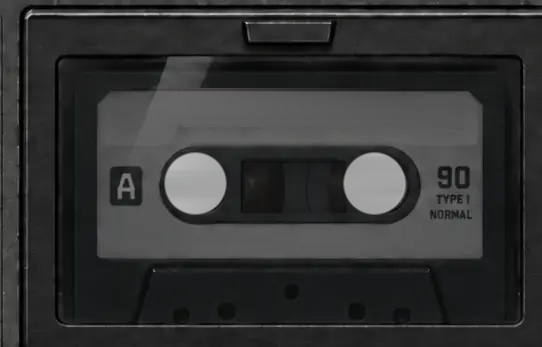
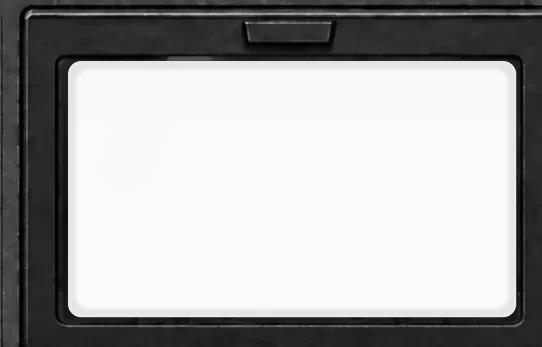
fix(looper): turn cassette overlay into real glass and bezel
Replace the baked cassette artwork in cassette-reference-overlay.webp with a true transparent glass pane while preserving the original molded plastic frame. The pane now carries only a faint neutral tint, subtle reflection and inner edge shadow, so cassette.webp and the animated mechanism are actually visible underneath. Add Chromium alpha checks for the pane and bump the overlay cache key.

diff --git a/index.html b/index.html
@@ -62,7 +62,7 @@
               <img class="cassetteReel cassetteReelRight" src="assets/looper-ui/120927/reel-animation.webp" width="64" height="64" alt="" draggable="false">
               <img class="cassetteTape" src="assets/looper-ui/120927/cassette.webp" width="435" height="262" alt="" draggable="false">
             </div>
-            <img class="cassetteReferenceOverlay" src="assets/looper-ui/120927/cassette-reference-overlay.webp?v=seamless-title-label-190926-5" width="542" height="347" alt="" aria-hidden="true" draggable="false">
+            <img class="cassetteReferenceOverlay" src="assets/looper-ui/120927/cassette-reference-overlay.webp?v=glass-bezel-190926-6" width="542" height="347" alt="" aria-hidden="true" draggable="false">
             <span id="cassetteBeatName" class="cassetteBeatName">NO BEAT LOADED</span>
             <div class="deckReadout" role="status" aria-live="polite">
               <button id="deckReadoutTrack" class="deckReadoutTrack" type="button" popovertarget="deckTrackDetails" aria-label="Afficher le titre complet">NO BEAT LOADED</button>

diff --git a/tests/looper_120927_render.py b/tests/looper_120927_render.py
@@ -1,6 +1,6 @@
 """Capture the approved 120927 deck at reviewable desktop/mobile sizes."""
 from pathlib import Path
-import base64, contextlib, http.server, os, socketserver, threading
+import contextlib, http.server, os, socketserver, threading
 try:
     from playwright.sync_api import sync_playwright
 except ImportError:
@@ -31,17 +31,28 @@ with contextlib.ExitStack() as stack:
             page.wait_for_function('window.__SP?.ui120927Ready === true')
             page.wait_for_function('window.__SP?.ui120927CssReady === true')
             page.wait_for_function("[...document.querySelectorAll('.cassetteMechanism img')].every(i=>i.complete && i.naturalWidth>0)")
-            if label=='desktop':
-                overlay_png=page.evaluate("""async()=>{
-                  const img=new Image();
-                  img.src='assets/looper-ui/120927/cassette-reference-overlay.webp';
-                  await img.decode();
-                  const canvas=document.createElement('canvas');
-                  canvas.width=img.naturalWidth;canvas.height=img.naturalHeight;
-                  canvas.getContext('2d').drawImage(img,0,0);
-                  return canvas.toDataURL('image/png').split(',')[1];
-                }""")
-                (ARTIFACTS/'cassette-reference-overlay-source.png').write_bytes(base64.b64decode(overlay_png))
+            overlay=page.locator('.cassetteReferenceOverlay')
+            assert overlay.count()==1
+            overlay_alpha=overlay.evaluate("""async el=>{
+              await el.decode();
+              const c=document.createElement('canvas');
+              c.width=el.naturalWidth;c.height=el.naturalHeight;
+              const ctx=c.getContext('2d');
+              ctx.drawImage(el,0,0);
+              const px=(x,y)=>ctx.getImageData(x,y,1,1).data[3];
+              return {
+                w:el.naturalWidth,h:el.naturalHeight,
+                center:px(271,180),
+                leftGlass:px(100,180),
+                bottomGlass:px(271,290),
+                frame:px(20,20)
+              };
+            }""")
+            assert overlay_alpha['w']==542 and overlay_alpha['h']==347,overlay_alpha
+            assert overlay_alpha['center']<=16,overlay_alpha
+            assert overlay_alpha['leftGlass']<=24,overlay_alpha
+            assert overlay_alpha['bottomGlass']<=24,overlay_alpha
+            assert overlay_alpha['frame']>=240,overlay_alpha
 
             assert page.locator('.looper66DeskSurface').count()==0
             workspace=page.locator('.looper66Workspace')
